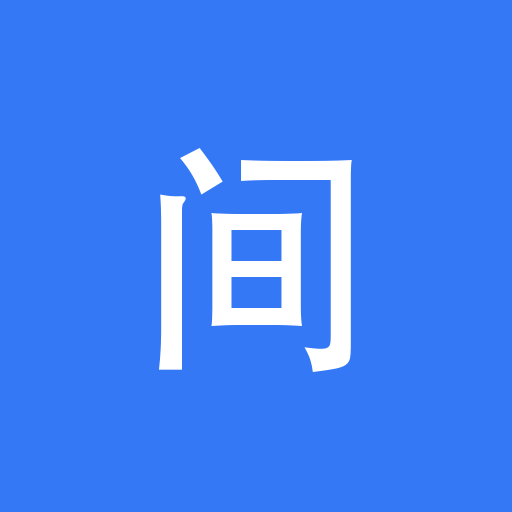
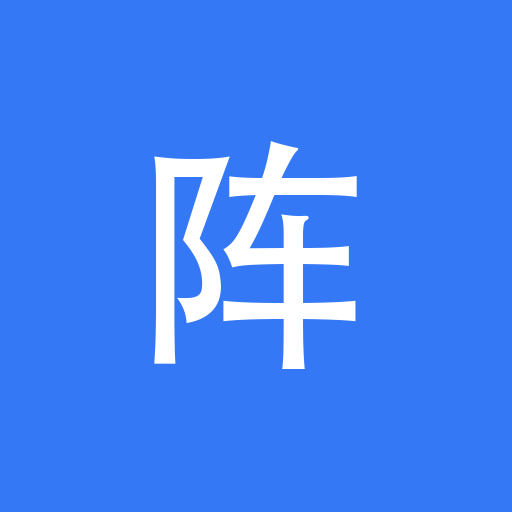
Update Site source

Changed region(s): [[0.2812, 0.2812, 0.7188, 0.75]]

diff --git a/prototype/index.html b/prototype/index.html
@@ -2,7 +2,7 @@
 <html lang="zh-CN">
 <head>
 <meta charset="utf-8"><meta name="viewport" content="width=device-width,initial-scale=1,viewport-fit=cover">
-<meta name="theme-color" content="#f4f5f9"><title>轮间 · 排球战术板视觉样稿</title>
+<meta name="theme-color" content="#f4f5f9"><title>排阵 · 排球战术板视觉样稿</title>
 <style>
 :root{color-scheme:light;--page:#e9ecf2;--bg:#f4f5f9;--card:#fff;--ink:#202630;--muted:#7a8392;--line:#e7eaf0;--accent:#3478f6;--soft:#edf3ff;--court:#f3f6fb;--court-line:#c5cedd;--front:#3c7fe7;--back:#9a6bc8;--shadow:0 18px 70px #26334912;--radius:22px}
 *{box-sizing:border-box}body{margin:0;background:var(--page);color:var(--ink);font:14px/1.5 -apple-system,BlinkMacSystemFont,"SF Pro Text","PingFang SC",sans-serif;transition:background .2s,color .2s}button,input{font:inherit}button{cursor:pointer;border:0;color:inherit;background:none;min-height:44px;-webkit-tap-highlight-color:transparent}button:disabled{opacity:.35;cursor:default}button:focus-visible,input:focus-visible{outline:3px solid var(--accent);outline-offset:3px}button:active{transform:scale(.97)}.studio{max-width:780px;margin:36px auto 24px;padding:0 22px}.studio-top{display:flex;justify-content:space-between;align-items:center}.eyebrow{font-size:11px;letter-spacing:2px;color:var(--muted);font-weight:650}.studio h1{font-size:25px;letter-spacing:-.8px;margin:7px 0 4px}.studio p{color:var(--muted);margin:0;font-size:13px}.sample-label{font-size:11px;border:1px solid var(--line);border-radius:20px;padding:5px 11px;background:var(--card);color:var(--muted)}.themes{display:grid;grid-template-columns:repeat(3,1fr);gap:9px;margin-top:20px}.theme{background:var(--card);border:1.5px solid transparent;border-radius:13px;display:flex;align-items:center;text-align:left;gap:9px;padding:11px 13px;min-height:60px}.theme[aria-pressed=true]{border-color:var(--accent);box-shadow:0 0 0 2px var(--soft)}.swatch{width:26px;height:30px;border-radius:7px;border:1px solid #00000012;background:linear-gradient(155deg,#fff 48%,#3478f6 49%);flex-shrink:0}.theme b{font-size:12px;display:block}.theme small{display:block;font-size:10px;color:var(--muted)}.theme:nth-child(2) .swatch{background:linear-gradient(155deg,#fff 48%,#b7ded2 49%)}.theme:nth-child(3) .swatch{background:linear-gradient(155deg,#222a37 48%,#8bb1ff 49%)}.preview-tools{display:flex;justify-content:space-between;align-items:center;max-width:440px;margin:0 auto 9px;padding:0 5px;color:var(--muted);font-size:11px}.preview-tools button{font-size:11px;min-height:30px;color:var(--muted)}.device{width:calc(100% - 28px);max-width:440px;margin:0 auto 35px;border:1px solid var(--line);background:var(--bg);border-radius:32px;overflow:hidden;box-shadow:var(--shadow);transition:max-width .2s}.device.narrow{max-width:375px}.app{padding:22px 18px 15px}.topbar{display:flex;align-items:center;justify-content:space-between;margin-bottom:19px}.brand{display:flex;align-items:center;gap:9px}.brand-mark{width:31px;height:31px;display:grid;place-items:center;background:var(--ink);color:var(--card);border-radius:10px;font-size:19px;font-weight:300}.brand strong{font-size:21px;letter-spacing:1px}.brand span{font-size:10px;color:var(--muted);margin-left:7px}.quiet{font-size:12px;color:var(--muted);padding:0 4px}.scoreboard{background:var(--card);border-radius:var(--radius);padding:15px 15px 13px;border:1px solid var(--line)}.score-meta{display:flex;justify-content:space-between;align-items:center;color:var(--muted);font-size:10px;letter-spacing:.5px}.live{display:flex;align-items:center;gap:5px}.dot{width:5px;height:5px;border-radius:50%;background:var(--accent)}.score-row{display:grid;grid-template-columns:1fr 25px 1fr;align-items:center;text-align:center;margin:13px 0 12px}.team-name{font-size:12px;color:var(--muted)}.team-name.ours{color:var(--ink);font-weight:600}.score{font-size:57px;font-weight:650;line-height:1.13;letter-spacing:-3px;font-variant-numeric:tabular-nums;margin:2px 0 8px}.separator{color:var(--line);font-size:27px;margin-top:-17px}.score-controls{display:grid;grid-template-columns:44px minmax(0,1fr);gap:7px}.score-minus{min-height:44px;border-radius:11px;border:1px solid var(--line);color:var(--muted);font-size:14px}.score-add{background:var(--soft);color:var(--accent);border-radius:11px;width:100%;font-size:16px;font-weight:600;min-height:44px}.opponent .score-add{background:var(--bg);color:var(--muted)}.serve-bar{border-top:1px solid var(--line);padding-top:11px;display:flex;align-items:center;justify-content:space-between;font-size:11px}.serve-bar strong{color:var(--accent);font-weight:550}.serve-bar button{min-height:27px;font-size:10px;color:var(--muted);padding:0 5px}.section-title{display:flex;justify-content:space-between;align-items:center;margin:21px 0 12px}.section-title h2{font-size:16px;margin:0;font-weight:650}.status{font-size:10px;color:#318768;background:#e8f4ee;padding:4px 8px;border-radius:7px}.status.error{background:#ffedee;color:#d54759}.court-layout{display:grid;grid-template-columns:minmax(0,1fr) 70px;gap:12px;align-items:start}.court-panel{min-width:0}.net-label{text-align:center;font-size:9px;color:var(--muted);letter-spacing:4px;margin:0 0 7px}.court{position:relative;width:100%;aspect-ratio:1/1.14;background:var(--court);border:1.5px solid var(--court-line);border-top:4px solid var(--court-line);border-radius:2px;isolation:isolate;overflow:hidden}.court:before{content:"";position:absolute;left:0;right:0;top:33.333%;border-top:1px solid var(--court-line)}.zone-label{position:absolute;left:8px;font-size:8px;color:var(--muted);opacity:.65;pointer-events:none}.front-zone{top:9px}.back-zone{bottom:7px}.links{position:absolute;inset:0;width:100%;height:100%;pointer-events:none;z-index:1}.links polyline{fill:none;stroke-width:.7;stroke-dasharray:2 2;opacity:.5}.player{position:absolute;transform:translate(-50%,-50%);z-index:2;display:flex;flex-direction:column;align-items:center;justify-content:center;width:36px;height:36px;min-height:36px;border-radius:50%;background:var(--card);color:var(--front);border:1.5px solid var(--front);box-shadow:0 3px 9px #2633490b;line-height:1.25;padding:0;user-select:none;-webkit-user-select:none;touch-action:auto}.player:disabled{opacity:1;cursor:default}.player:active{transform:translate(-50%,-50%)}.player.back{color:var(--back);border-color:var(--back)}.player::after{content:"";position:absolute;inset:-4px;border-radius:50%}.player b{font-size:15px;font-weight:600;line-height:1;pointer-events:none}.player.libero{background:var(--back);color:white}.player.invalid{border:2px solid #e45568;box-shadow:0 0 0 3px #e455681a}.editing .player{touch-action:none;cursor:grab;box-shadow:0 0 0 4px var(--soft)}.editing .player:active{cursor:grabbing}.mini-aside{padding-top:22px;text-align:center}.mini-title{font-size:10px;font-weight:600;margin-bottom:8px}.mini-court{border:1px solid var(--court-line);border-top:3px solid var(--court-line);background:var(--card);padding:9px 2px;display:grid;grid-template-columns:repeat(3,1fr);gap:11px 1px;border-radius:2px}.mini-cell{font-size:8px;white-space:nowrap;line-height:1.5}.mini-cell i{display:block;font-style:normal;font-size:9px;font-weight:650;color:var(--front)}.mini-cell:nth-child(n+4) i{color:var(--back)}.mini-note{font-size:9px;line-height:1.8;color:var(--muted);margin-top:10px}.mini-round{font-size:23px;font-weight:650;letter-spacing:-1px;margin-top:12px}.mini-round small{font-size:9px;color:var(--muted);letter-spacing:0;display:block;font-weight:400}.legend{display:flex;gap:13px;margin-top:11px;font-size:10px;color:var(--muted)}.legend span{display:flex;gap:5px;align-items:center}.legend i{display:block;width:6px;height:6px;border-radius:50%;background:var(--front)}.legend span:nth-child(2) i{background:var(--back)}.round-area{margin-top:19px}.round-heading{display:flex;justify-content:space-between;font-size:10px;color:var(--muted);margin-bottom:8px}.round-heading button{min-height:15px;font-size:10px;color:var(--accent);padding:0}.rounds{display:grid;grid-template-columns:repeat(6,1fr);gap:6px}.round{background:var(--card);border:1px solid var(--line);border-radius:10px;min-height:46px;line-height:1.25;padding:6px 0;font-size:13px;font-weight:600;position:relative}.round small{display:block;font-size:8px;font-weight:400;margin-top:3px;min-height:10px;color:var(--muted)}.round[aria-pressed=true]{background:var(--accent);color:#fff;border-color:var(--accent)}.round[aria-pressed=true] small{color:#ffffffb8}.actions{display:grid;grid-template-columns:1fr 1.8fr;gap:9px;margin-top:15px}.secondary,.primary{border-radius:12px;font-size:12px;font-weight:550;min-height:45px}.secondary{border:1px solid var(--line);background:var(--card);color:var(--muted)}.primary{background:var(--accent);color:#fff}.hint{font-size:10px;color:var(--muted);text-align:center;margin:10px 0 0;min-height:15px}.bottom-nav{display:grid;grid-template-columns:repeat(3,1fr);gap:8px;border-top:1px solid var(--line);margin-top:20px;padding-top:7px}.bottom-nav button{font-size:10px;min-height:48px;color:var(--muted);display:flex;align-items:center;justify-content:center;gap:6px}.bottom-nav button.active{color:var(--accent);font-weight:600}.bottom-nav svg{width:17px;height:17px;stroke:currentColor;fill:none;stroke-width:1.7;stroke-linecap:round;stroke-linejoin:round}.footnote{text-align:center;max-width:440px;padding:0 20px;margin:-14px auto 28px;color:var(--muted);font-size:11px}.footnote span{display:block;font-size:10px;margin-top:4px;opacity:.75}dialog{border:1px solid var(--line);background:var(--card);color:var(--ink);border-radius:24px;padding:23px;width:calc(100% - 36px);max-width:390px;box-shadow:0 25px 100px #0003}dialog::backdrop{background:#17203365;backdrop-filter:blur(5px)}dialog h2{font-size:19px;margin:0 0 6px}dialog p{font-size:12px;color:var(--muted);margin:0 0 19px}.dialog-top{display:flex;justify-content:space-between;align-items:start}.close{min-height:30px;padding:0 4px;font-size:20px;color:var(--muted)}.roster-row{display:grid;grid-template-columns:64px 1fr;align-items:center;gap:12px;margin:10px 0;font-size:12px}.roster-row label{color:var(--muted)}input{width:100%;border:1px solid var(--line);border-radius:9px;padding:11px;background:var(--bg);color:var(--ink);min-width:0}.dialog-buttons{display:grid;gap:9px;margin-top:20px}.toast{position:fixed;bottom:25px;left:50%;transform:translateX(-50%);background:var(--ink);color:var(--card);padding:11px 18px;border-radius:12px;font-size:12px;z-index:10;box-shadow:var(--shadow);max-width:90%;text-align:center}.toast[hidden]{display:none}
@@ -14,7 +14,7 @@ body[data-theme=mint]{--page:#edf3f0;--bg:#fff;--card:#fff;--ink:#213e36;--muted
 <body data-theme="ios">
 <header class="studio"><div class="studio-top"><div><div class="eyebrow">VOLLEYBALL / DESIGN STUDY</div><h1>找到你的比赛节奏。</h1></div><span class="sample-label">视觉样稿 · 01</span></div><p>同一块战术板，三种轻量表达。先选风格，再打磨细节。</p><div class="themes" aria-label="视觉风格"><button class="theme" data-theme="ios" aria-pressed="true"><span class="swatch"></span><span><b>A · iOS 清爽</b><small>浅色 · 轻盈 · 熟悉</small></span></button><button class="theme" data-theme="mint" aria-pressed="false"><span class="swatch"></span><span><b>B · 球场简约</b><small>淡青 · 自然 · 专注</small></span></button><button class="theme" data-theme="dark" aria-pressed="false"><span class="swatch"></span><span><b>C · 深色对比</b><small>深色 · 清晰 · 沉浸</small></span></button></div></header>
 <div class="preview-tools"><span id="theme-caption">A / iOS 清爽浅色</span><button id="width-toggle">窄屏预览 · 375px</button></div>
-<main class="device" id="device"><div class="app"><header class="topbar"><div class="brand"><div class="brand-mark">间</div><strong>轮间<span>排球战术板</span></strong></div><button class="quiet" id="exit">退出比赛</button></header>
+<main class="device" id="device"><div class="app"><header class="topbar"><div class="brand"><div class="brand-mark">阵</div><strong>排阵<span>排球战术板</span></strong></div><button class="quiet" id="exit">退出比赛</button></header>
 <section class="scoreboard" aria-label="示例记分板"><div class="score-meta"><span class="live"><i class="dot"></i>自由训练</span><span>示例记分</span></div><div class="score-row"><div><div class="team-name ours">我方 · 蓝鲸</div><div class="score" id="score-us">12</div><div class="score-controls"><button class="score-minus" id="minus-us" aria-label="我方减一分">−1</button><button class="score-add" id="add-us" aria-label="我方加一分">＋ 1</button></div></div><span class="separator">:</span><div class="opponent"><div class="team-name">对方 · 飞鸟</div><div class="score" id="score-them">09</div><div class="score-controls"><button class="score-minus" id="minus-them" aria-label="对方减一分">−1</button><button class="score-add" id="add-them" aria-label="对方加一分">＋ 1</button></div></div></div><div class="serve-bar"><strong id="serve-label">对方发球 · 我方接发</strong><button id="serve-toggle">切换发球方</button></div></section>
 <div class="section-title"><h2 id="court-heading">接发站位</h2><span class="status" id="valid-status">站位关系正确</span></div>
 <section class="court-layout" aria-label="接发阵型"><div class="court-panel"><div class="net-label">球 网</div><div class="court" id="court"><span class="zone-label front-zone">前场</span><span class="zone-label back-zone">后场</span><svg class="links" viewBox="0 0 100 100" preserveAspectRatio="none" aria-hidden="true"><polyline id="front-link"></polyline><polyline id="back-link"></polyline></svg><div id="players"></div></div><div class="legend"><span><i></i>前排</span><span><i></i>后排</span><span><i style="background:var(--back);width:9px;height:9px"></i>自由人</span></div></div><aside class="mini-aside"><div class="mini-title">轮转位置</div><div class="mini-court" id="mini-court"></div><div class="mini-note">标准位置<br>用于校对轮次</div><div class="mini-round" id="mini-round">R1<small>当前轮次</small></div></aside></section>

diff --git a/index.html b/index.html
@@ -1,4 +1,4 @@
-<!doctype html><html lang="zh-CN"><head><meta charset="utf-8"><meta name="viewport" content="width=device-width,initial-scale=1,viewport-fit=cover"><meta name="theme-color" content="#f4f5f9"><meta name="apple-mobile-web-app-capable" content="yes"><meta name="apple-mobile-web-app-status-bar-style" content="default"><meta name="description" content="轮间排球战术板：六轮接发站位、记分轮转、换人及离线保存。"><title>轮间 · 排球战术板</title><link rel="manifest" href="./manifest.webmanifest"><link rel="icon" href="./icons/icon-192.png"><link rel="apple-touch-icon" href="./icons/apple-touch-icon.png"><link rel="stylesheet" href="./styles.css"></head><body data-theme="ios"><main class="device" id="device"><div class="app"><header class="topbar"><div class="brand"><div class="brand-mark">间</div><strong>轮间<span>排球战术板</span></strong></div><button class="quiet" id="exit">退出比赛</button></header>
+<!doctype html><html lang="zh-CN"><head><meta charset="utf-8"><meta name="viewport" content="width=device-width,initial-scale=1,viewport-fit=cover"><meta name="theme-color" content="#f4f5f9"><meta name="apple-mobile-web-app-title" content="排阵"><meta name="apple-mobile-web-app-capable" content="yes"><meta name="apple-mobile-web-app-status-bar-style" content="default"><meta name="description" content="排阵排球战术板：六轮接发站位、记分轮转、换人及离线保存。"><title>排阵 · 排球战术板</title><link rel="manifest" href="./manifest.webmanifest"><link rel="icon" href="./icons/icon-192.png"><link rel="apple-touch-icon" href="./icons/apple-touch-icon.png"><link rel="stylesheet" href="./styles.css"></head><body data-theme="ios"><main class="device" id="device"><div class="app"><header class="topbar"><div class="brand"><div class="brand-mark">阵</div><strong>排阵<span>排球战术板</span></strong></div><button class="quiet" id="exit">退出比赛</button></header>
 <div class="sync-row"><span id="save-status" role="status">正在读取本机数据</span><button class="quiet" id="help">使用与备份</button></div><p class="save-error" id="save-error" role="alert" hidden></p><section class="welcome" id="welcome"><h2>下一球，从这里开始。</h2><p>先编辑队员，选择首发和起始轮次。六轮阵型都从规整站位开始，可随时拖动调整。</p><button class="primary" id="start">开始比赛 / 训练</button></section><section class="scoreboard" aria-label="记分板"><div class="score-meta"><span class="live"><i class="dot"></i>自由训练</span><span id="match-caption">准备开始</span></div><div class="score-row"><div><div class="team-name ours" id="team-us">我方</div><div class="score" id="score-us">00</div><div class="score-controls"><button class="score-minus" id="minus-us" aria-label="我方减一分">−1</button><button class="score-add" id="add-us" aria-label="我方加一分">＋ 1</button></div></div><span class="separator">:</span><div class="opponent"><div class="team-name" id="team-them">对方</div><div class="score" id="score-them">00</div><div class="score-controls"><button class="score-minus" id="minus-them" aria-label="对方减一分">−1</button><button class="score-add" id="add-them" aria-label="对方加一分">＋ 1</button></div></div></div><div class="serve-bar"><strong id="serve-label">对方发球 · 我方接发</strong><button id="correct">校正比赛</button></div></section>
 <div class="preview-banner" id="preview-banner" hidden></div><div class="section-title"><h2 id="court-heading">接发站位</h2><span class="status" id="valid-status">站位关系正确</span></div>
 <section class="court-layout" aria-label="接发阵型"><div class="court-panel"><div class="net-label">球 网</div><div class="court" id="court"><span class="zone-label front-zone">前场</span><span class="zone-label back-zone">后场</span><svg class="links" viewBox="0 0 100 100" preserveAspectRatio="none" aria-hidden="true"><polyline id="front-link"></polyline><polyline id="back-link"></polyline></svg><div id="players"></div></div><div class="legend"><span><i></i>前排</span><span><i></i>后排</span><span><i style="background:var(--back);width:9px;height:9px"></i>自由人</span></div></div><aside class="mini-aside"><div class="mini-title">轮转位置</div><div class="mini-court" id="mini-court"></div><div class="mini-note">标准位置<br>用于校对轮次</div><div class="mini-round" id="mini-round">R1<small>当前轮次</small></div></aside></section>

diff --git a/app.js b/app.js
@@ -117,7 +117,7 @@ function renderSub(){
 $('substitute').onclick=()=>{renderSub();$('sub-dialog').showModal()};
 $('sub-form').onsubmit=e=>{e.preventDefault();try{substitute(state,+$('sub-role').value,$('sub-player').value);save();render();renderSub();toast('已换人，轮次和站位保持不变');}catch(err){$('sub-error').textContent=err.message}};
 $('help').onclick=()=>{finishEditing();$('help-dialog').showModal()};
-$('backup').onclick=()=>{const blob=new Blob([JSON.stringify(state,null,2)],{type:'application/json'}),url=URL.createObjectURL(blob),a=el('a',{href:url,download:`轮间备份-${new Date().toISOString().slice(0,10)}.json`});document.body.append(a);a.click();a.remove();setTimeout(()=>URL.revokeObjectURL(url),30000);};
+$('backup').onclick=()=>{const blob=new Blob([JSON.stringify(state,null,2)],{type:'application/json'}),url=URL.createObjectURL(blob),a=el('a',{href:url,download:`排阵备份-${new Date().toISOString().slice(0,10)}.json`});document.body.append(a);a.click();a.remove();setTimeout(()=>URL.revokeObjectURL(url),30000);};
 $('restore').onclick=()=>$('restore-file').click();
 $('restore-file').onchange=async()=>{const file=$('restore-file').files[0];if(!file)return;try{if(file.size>5*1024*1024)throw Error('备份文件超过 5MB。');const incoming=validateState(JSON.parse(await file.text()));confirm('恢复将覆盖本机队员、默认站位和当前比赛。建议先导出已有数据备份。',async()=>{if(storageBlocked){try{await openStore();storageBlocked=false;}catch{showSaveError('恢复的数据暂存于内存，无法写入本机。请导出备份后重新打开。');}}state=clone(incoming);mode='match';viewRound=state.match?.round||0;editing=false;save();render();$('help-dialog').close();toast('备份已恢复');});$('backup-error').textContent='';}catch(err){$('backup-error').textContent='无法恢复：'+err.message}finally{$('restore-file').value=''}};
 for(const b of document.querySelectorAll('[data-close]'))b.onclick=()=>b.closest('dialog').close();

diff --git a/sw.js b/sw.js
@@ -1,4 +1,4 @@
-const CACHE='lunjian-v2';
+const CACHE='lunjian-v3';
 const SHELL=['./','./index.html','./styles.css','./app.js','./core.js','./storage.js','./manifest.webmanifest','./icons/icon-192.png','./icons/icon-512.png','./icons/apple-touch-icon.png'];
 const BASE=new URL('./',self.location.href);
 const URLS=new Set(SHELL.map(p=>new URL(p,BASE).href));

diff --git a/storage.js b/storage.js
@@ -1,3 +1,4 @@
+// Keep the database name stable across branding changes so existing matches survive.
 const DB='lunjian-volleyball';
 let db;
 export async function openStore(){

diff --git a/docs/acceptance.md b/docs/acceptance.md
@@ -19,3 +19,7 @@
 ## 尚需真机验收
 
 iOS 27 Safari / 主屏幕应用的安装、触摸拖动、后台后恢复、飞行模式冷启动及备份文件导入导出。浏览器尺寸检查和本地离线验证不等同于真机验收。
+
+## 品牌更名
+
+应用显示名称更新为“排阵”，同步更新主屏幕名称、图标与备份文件名。保留 IndexedDB 数据库名、Manifest id/scope/start_url 和线上站点地址，已有名单与比赛无需迁移。Service Worker 缓存版本更新为 v3，比赛中不强制刷新。

diff --git a/README.md b/README.md
@@ -1,4 +1,4 @@
-# 轮间 · 排球战术板
+# 排阵 · 排球战术板
 
 一款手机优先的中文排球接发战术板，采用已确认的 iOS 清爽浅色风格。纯静态 PWA，无第三方运行时依赖、账号、遥测或云端比赛数据库。
 
